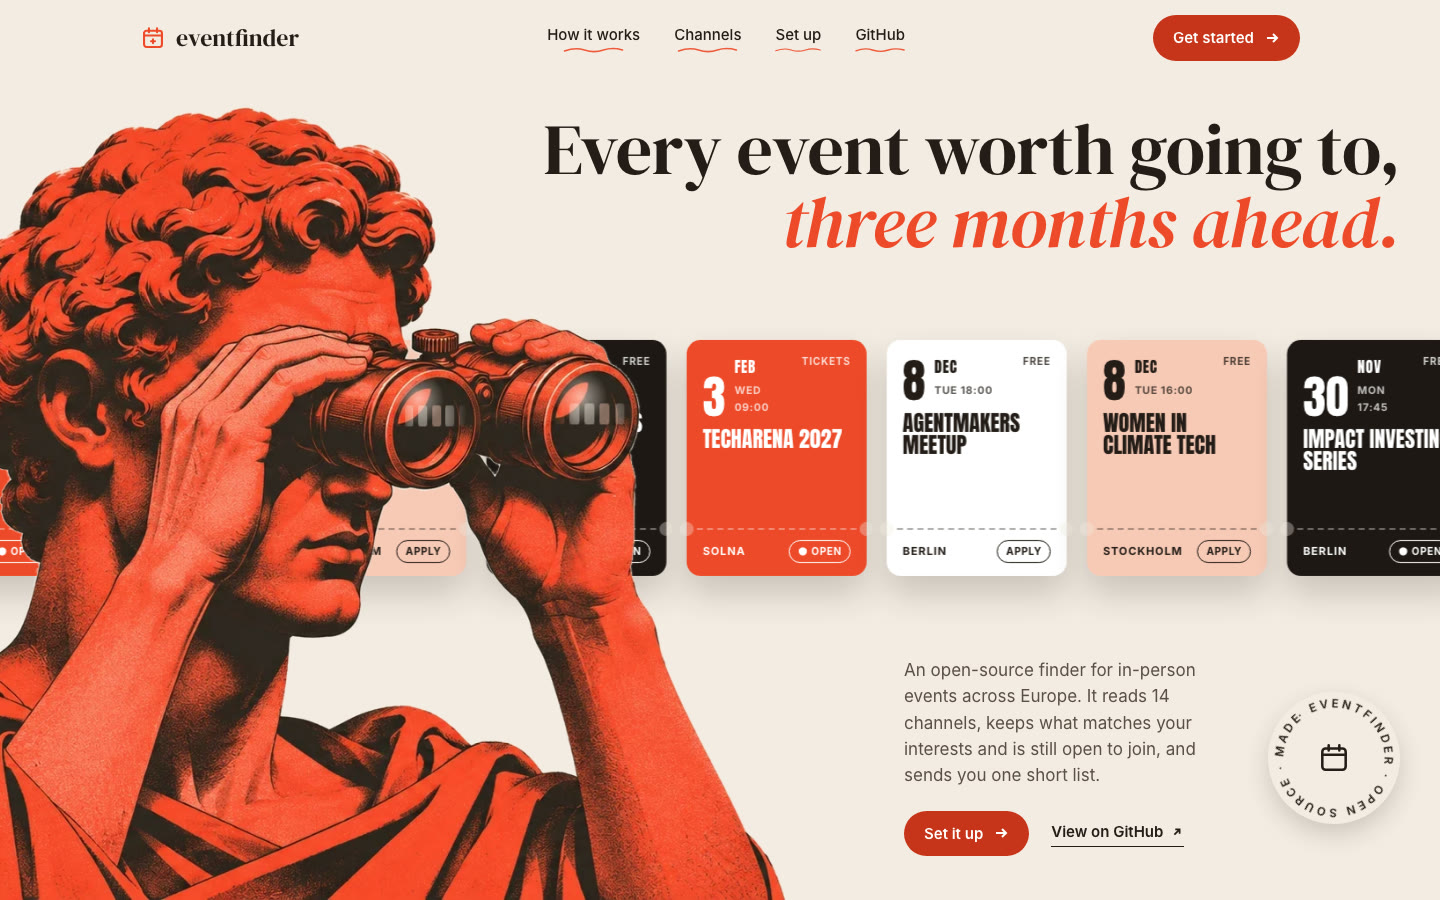
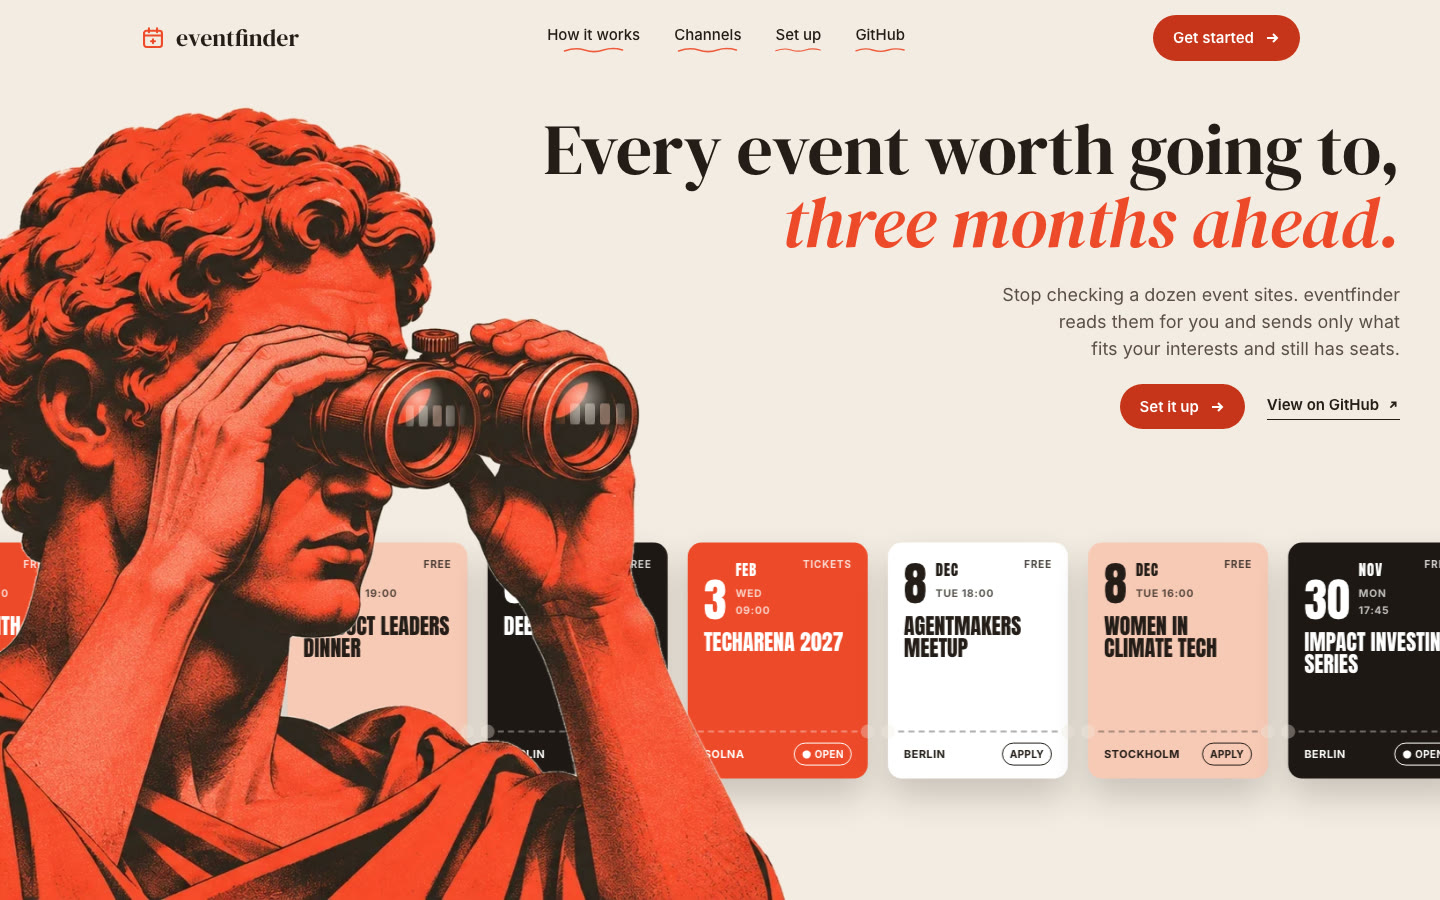
feat(eventfinder): design case shows the new landing hero
Re-shot the hero (desktop, mobile, card thumb) after the landing's hero
redesign and described the change: pitch and buttons under the headline,
badge removed, tickets passing behind the bust.

Changed region(s): [[0.4062, 0.3111, 1.0, 0.9644], [0.1875, 0.5289, 0.4062, 0.8711], [0.0, 0.5289, 0.0312, 0.7156]]

diff --git a/lib/caseStudies.ts b/lib/caseStudies.ts
@@ -542,12 +542,15 @@ export const CASE_STUDIES: CaseStudy[] = [
           'I generated the bust illustration with AI and built the page around it',
           'The palette is taken from the illustration: paper #F4ECE3, tomato #EE4A2A, ink #241C18',
           'The lenses reflect the passing tickets, and a glint on the glass follows the cursor',
-          'The bust leans a few pixels away from the cursor; the ticket row is fitted between the headline and the text so it never covers either',
+          'Headline, one-line pitch and both buttons sit in one block on the right, so the offer reads in a single glance',
+          'The ticket row runs below that block and passes behind the bust, which gives the scene depth',
+          'An earlier version had the pitch in a bottom corner next to a spinning “open source” badge; I removed the badge and moved the text up under the headline',
+          'The bust leans a few pixels away from the cursor',
           'Tickets use a poster face (Anton) for dates and titles, a dashed tear line with notches, and an Open or Apply stamp',
         ],
         layout: 'wide',
         images: [
-          { src: `${E}/d-hero.jpg`, w: 1440, h: 900, label: 'Hero', description: 'Bust, binoculars and a row of ticket stubs.' },
+          { src: `${E}/d-hero.jpg`, w: 1440, h: 900, label: 'Hero', description: 'Headline and offer on the right, tickets passing behind the bust.' },
         ],
       },
       {
